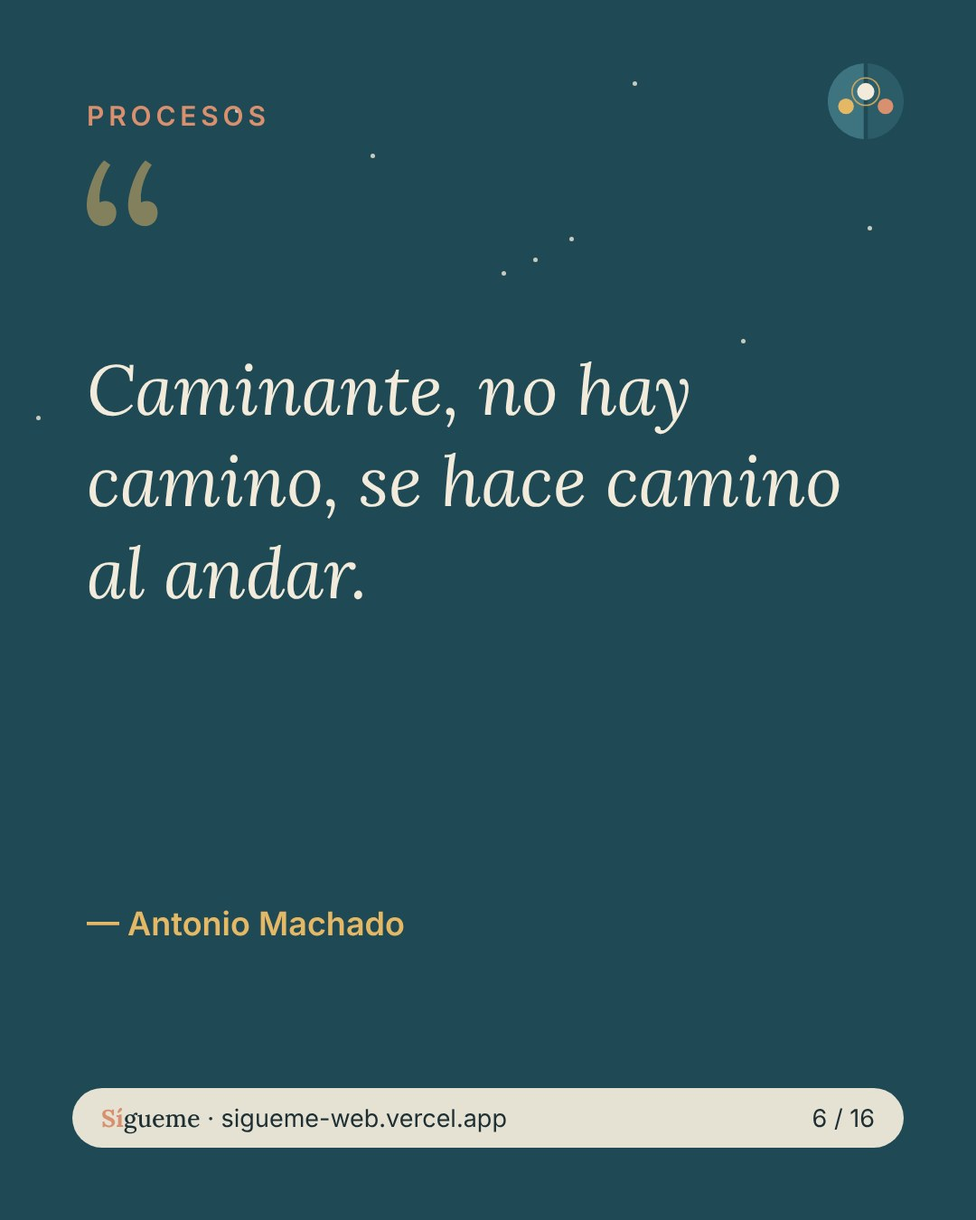
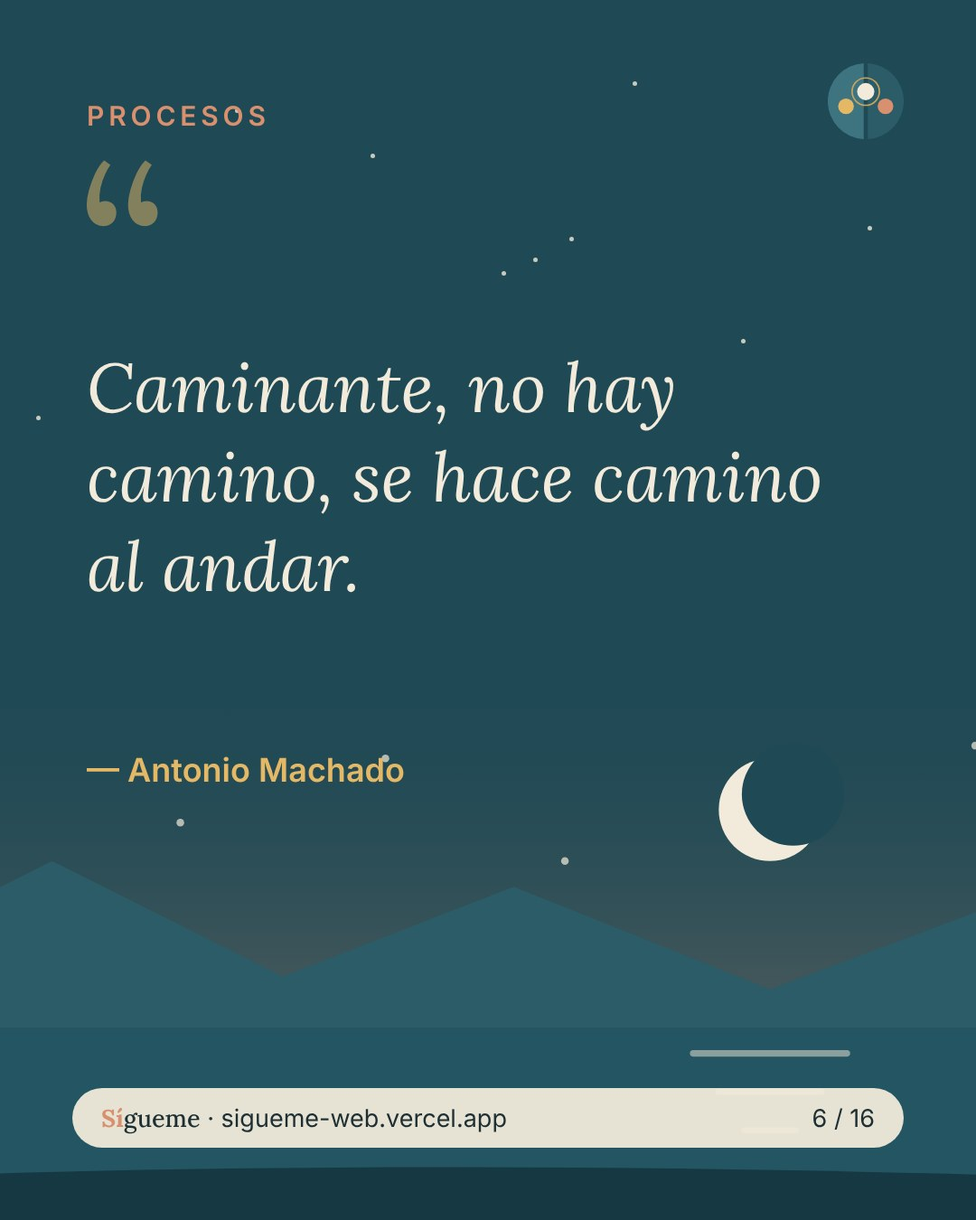
Sección Junto al pozo con ideas ampliadas; frases con fondos de paisajes
Claude-Session: https://claude.ai/code/session_01126Kc534DUeLLevauV9jN5

diff --git a/index.html b/index.html
@@ -423,6 +423,7 @@ footer a{color:var(--cream)}
         <li><a href="#inicio">Inicio</a></li>
         <li><a href="#libre-uso">Un espacio abierto</a></li>
         <li><a href="#emaus">Como en Emaús</a></li>
+        <li><a href="#pozo">Junto al pozo</a></li>
         <li><a href="#camino">Para el camino</a></li>
         <li><a href="#vida-consagrada">Vida consagrada hoy</a></li>
         <li><a href="#valoracion">Valoración personal</a></li>
@@ -500,6 +501,37 @@ footer a{color:var(--cream)}
           <li><span class="ill-tile"><svg viewBox="0 0 120 120" aria-hidden="true"><circle cx="22" cy="74" r="11" fill="#D9906F"/><rect y="88" width="120" height="32" fill="#2C5C67"/><path d="M42 62l24-20 24 20v26H42z" fill="#3D7480"/><path d="M36 64l30-26 30 26" stroke="#D9906F" stroke-width="6" fill="none" stroke-linejoin="round" stroke-linecap="round"/><rect x="58" y="66" width="14" height="22" rx="7" fill="#E5B866"/><rect x="78" y="66" width="8" height="8" rx="1" fill="#E5B866"/><path d="M62 88c-4 12-22 20-32 32h22c8-12 18-20 18-32z" fill="#9fb7bd"/></svg></span><span class="libre-n">03</span><b>Quedarse</b><span>Cuando se hace tarde y el cansancio pesa, tener un lugar donde quedarse.</span><button type="button" class="idea-btn" data-idea="em3" aria-haspopup="dialog">Ampliar la idea <span aria-hidden="true">→</span></button></li>
           <li><span class="ill-tile"><svg viewBox="0 0 120 120" aria-hidden="true"><path d="M60 100C36 84 28 70 30 58c2-10 14-14 22-8 4 3 6 6 8 10 2-4 4-7 8-10 8-6 20-2 22 8 2 12-6 26-30 42z" fill="#D9906F"/><path d="M60 50c-10-10-6-22 4-32 0 10 10 14 8 24-1 5-6 8-12 8z" fill="#E5B866"/><path d="M62 46c-4-4-2-10 2-14 0 5 4 7 3 11-1 2-3 3-5 3z" fill="#F2EBDB"/></svg></span><span class="libre-n">04</span><b>Volver al camino</b><span>Con el corazón encendido, volver a la comunidad y a la misión.</span><button type="button" class="idea-btn" data-idea="em4" aria-haspopup="dialog">Ampliar la idea <span aria-hidden="true">→</span></button></li>
         </ol>
+      </div>
+    </div>
+  </section>
+
+  <section class="block" id="pozo">
+    <div class="wrap">
+      <p class="eyebrow">Volver a la fuente</p>
+      <h2>Junto al pozo</h2>
+      <p class="po-lead">Al mediodía, una mujer va a buscar agua y encuentra a Jesús sentado junto al pozo. Una conversación cambia su vida (Jn 4,5-42). En el centro de toda vocación hay un encuentro así: no una idea, ni un proyecto, ni una norma, sino la persona de Jesús que sale al encuentro, mira, llama. Volver a ese encuentro es volver a la fuente.</p>
+      <div class="services"><article class="service"><span class="ill-tile"><svg viewBox="0 0 120 120" aria-hidden="true"><circle cx="86" cy="26" r="11" fill="#E5B866"/><path d="M60 22v26M40 22h40" stroke="#9fb7bd" stroke-width="3.5" stroke-linecap="round"/><path d="M60 48v10" stroke="#F2EBDB" stroke-width="2"/><path d="M54 58h12l-2 9h-8z" fill="#D9906F"/><path d="M28 66h64v34H28z" fill="#3D7480"/><path d="M28 66h64" stroke="#F2EBDB" stroke-width="4" stroke-linecap="round"/><path d="M28 80h64M28 92h64M46 66v14M74 66v14M60 80v12M38 92v8M82 92v8" stroke="#1F4955" stroke-width="2"/><path d="M12 104h96" stroke="#E5B866" stroke-width="3" stroke-linecap="round"/></svg></span><span class="tag">La iniciativa</span><h3>«Dame de beber»</h3><p>Jesús llega cansado y se sienta junto al pozo. Es Él quien empieza el diálogo, quien pide, quien sale al encuentro. Mi vocación no comenzó conmigo: comenzó con su sed de mí.</p><button type="button" class="idea-btn" data-idea="pz1" aria-haspopup="dialog">Ampliar la idea <span aria-hidden="true">→</span></button></article><article class="service"><span class="ill-tile"><svg viewBox="0 0 120 120" aria-hidden="true"><circle cx="60" cy="54" r="34" fill="#E5B866" opacity=".14"/><path d="M60 20c12 18 18 28 18 38a18 18 0 0 1-36 0c0-10 6-20 18-38z" fill="#9fb7bd"/><path d="M54 52c0 6 3 10 8 11" stroke="#F2EBDB" stroke-width="3" fill="none" stroke-linecap="round"/><path d="M22 92c8-6 16-6 24 0s16 6 24 0 16-6 24 0" stroke="#3D7480" stroke-width="4" fill="none" stroke-linecap="round"/><path d="M28 104c8-5 16-5 24 0s16 5 24 0 12-4 16-2" stroke="#D9906F" stroke-width="3.5" fill="none" stroke-linecap="round"/></svg></span><span class="tag">La fuente</span><h3>El agua viva</h3><p>«Si conocieras el don de Dios…» Él ofrece un agua que se vuelve manantial adentro. Cuando la tarea seca, no se trata de esforzarse más, sino de volver a beber de la fuente.</p><button type="button" class="idea-btn" data-idea="pz2" aria-haspopup="dialog">Ampliar la idea <span aria-hidden="true">→</span></button></article><article class="service"><span class="ill-tile"><svg viewBox="0 0 120 120" aria-hidden="true"><circle cx="60" cy="34" r="14" fill="#E5B866" opacity=".9"/><path d="M60 14v-6M80 34h6M34 34h-6M74 20l4-4M46 20l-4-4" stroke="#E5B866" stroke-width="2.5" stroke-linecap="round"/><circle cx="40" cy="62" r="8" fill="#F2EBDB"/><path d="M28 100V84c0-8 5-12 12-12s12 4 12 12v16z" fill="#F2EBDB"/><circle cx="80" cy="62" r="8" fill="#D9906F"/><path d="M68 100V84c0-8 5-12 12-12s12 4 12 12v16z" fill="#D9906F"/><path d="M14 104h92" stroke="#3D7480" stroke-width="3" stroke-linecap="round"/></svg></span><span class="tag">Mi historia</span><h3>«Me dijo todo lo que hice»</h3><p>La mirada de Jesús conoce toda la historia, también lo que cuesta mostrar, y no la usa para condenar sino para liberar. Él no llamó a una persona ideal: me llamó a mí.</p><button type="button" class="idea-btn" data-idea="pz3" aria-haspopup="dialog">Ampliar la idea <span aria-hidden="true">→</span></button></article><article class="service"><span class="ill-tile"><svg viewBox="0 0 120 120" aria-hidden="true"><path d="M24 98c18-2 40-14 56-44 6-12 14-22 26-28" stroke="#9fb7bd" stroke-width="3" stroke-dasharray="2 7" fill="none" stroke-linecap="round"/><circle cx="96" cy="22" r="5" fill="#F2EBDB"/><path d="M106 18l4-4M106 26l5 2" stroke="#F2EBDB" stroke-width="2" stroke-linecap="round"/><path d="M30 58h20l-2 6c8 4 12 12 11 22-1 9-8 14-18 14s-17-5-18-14c-1-10 3-18 11-22z" fill="#D9906F"/><path d="M28 56h24" stroke="#F2EBDB" stroke-width="4" stroke-linecap="round"/><path d="M40 72c-4 4-5 9-4 14" stroke="#F2EBDB" stroke-width="2.5" fill="none" stroke-linecap="round"/><path d="M12 104h96" stroke="#3D7480" stroke-width="3" stroke-linecap="round"/></svg></span><span class="tag">La misión</span><h3>Dejó su cántaro</h3><p>La mujer deja allí lo que había ido a buscar y corre a contar lo que vivió. La misión nace del desborde del encuentro, no de la obligación.</p><button type="button" class="idea-btn" data-idea="pz4" aria-haspopup="dialog">Ampliar la idea <span aria-hidden="true">→</span></button></article></div>
+      <div class="po-cols">
+        <div>
+          <h4>Mi llamado</h4>
+          <p>Cada vocación tiene su pozo: un lugar, un momento, una persona, una palabra en la que uno se sintió mirado y llamado. Con los años, la rutina, el cansancio o las crisis pueden cubrirlo de polvo.</p>
+          <h4>Recordar es volver a pasar por el corazón</h4>
+          <p>Volver al primer encuentro no es nostalgia. Es reconocer que la fuente sigue manando, aunque sea de noche, y que el que llamó sigue llamando hoy, en esta etapa de la vida.</p>
+          <p class="po-note">Una sugerencia: escribí tu historia de llamado en el <a href="app/#cuaderno" target="_blank" rel="noopener">cuaderno de la app</a>, o usá la dinámica <a href="#dinamicas">Mi historia personal</a> para mirarla con ojos de fe.</p>
+        </div>
+        <div>
+          <div class="po-box">
+            <h4>Para rezar mi llamado</h4>
+            <ul class="care">
+              <li>¿Cuándo y dónde sentí por primera vez que Jesús me llamaba?</li>
+              <li>¿Qué palabra, gesto o persona me hizo saber que era para mí?</li>
+              <li>¿Cuál es hoy mi pozo, el lugar donde vuelvo a encontrarlo?</li>
+              <li>¿Qué cántaro necesito dejar para volver a la fuente?</li>
+              <li>¿Cómo le contaría hoy mi historia de llamado a alguien?</li>
+            </ul>
+          </div>
+          <p class="po-note">«Dios tiene sed de que el hombre tenga sed de Él» (Catecismo de la Iglesia Católica, 2560).</p>
+        </div>
       </div>
     </div>
   </section>
@@ -888,7 +920,7 @@ box.addEventListener("keydown",e=>{if(e.key==="ArrowRight")show(fi+1);if(e.key==
 document.querySelectorAll("[data-df]").forEach(b=>b.addEventListener("click",()=>{const f=b.dataset.df;document.querySelectorAll("[data-df]").forEach(x=>x.setAttribute("aria-pressed",x===b?"true":"false"));document.querySelectorAll(".din").forEach(li=>li.hidden=!!f&&li.dataset.dcat!==f)}));
 </script>
 <script>
-(function(){const IDEAS={"em1": {"eb": "Como en Emaús · 01", "t": "Caminar al lado", "hoy": ["Vivimos apurados. Las agendas pastorales están llenas y muchas veces se acompaña «de pasada», entre una reunión y otra. A la vez, crece la soledad de muchos sacerdotes, religiosos y religiosas, que cargan su tarea sin alguien que camine cerca.", "Acompañar no empieza por dar respuestas ni soluciones: empieza por estar. Ir al ritmo del otro, sin apurarlo, es ya una forma de cuidado."], "aut": [["Papa Francisco", "En <i>Evangelii gaudium</i> (169) habla del «arte del acompañamiento»: aprender a quitarse las sandalias ante la tierra sagrada del otro y darle al caminar un ritmo sanador de projimidad."], ["Carl Rogers", "Sostuvo que lo que más ayuda a una persona a crecer no es una técnica, sino una relación: presencia auténtica, comprensión empática y aceptación sin condiciones."], ["Henri Nouwen", "Escribió que el amigo que más nos importa suele ser el que sabe quedarse a nuestro lado en silencio cuando no hay nada que decir, más que el que tiene todas las respuestas."]], "pal": [["Jesús en persona se acercó y siguió caminando con ellos.", "Lc 24,15"], ["Yo estoy con ustedes todos los días hasta el fin del mundo.", "Mt 28,20"]], "q": "¿Quién camina hoy a mi lado? ¿Al lado de quién estoy caminando yo?"}, "em2": {"eb": "Como en Emaús · 02", "t": "Escuchar lo que pesa", "hoy": ["Hay mucho ruido y poca escucha. Y quienes escuchan a otros todo el día (en la confesión, en la dirección espiritual, en la comunidad) muchas veces no tienen dónde ser escuchados.", "Poner en palabras lo vivido ordena lo que está mezclado por dentro y alivia. Lo que se calla no desaparece: suele volver como cansancio, irritabilidad o distancia."], "aut": [["Dietrich Bonhoeffer", "En <i>Vida en comunidad</i> afirma que el primer servicio que le debemos al hermano es escucharlo, y que quien no sabe escuchar al hermano pronto tampoco sabrá escuchar a Dios."], ["James Pennebaker", "Sus investigaciones mostraron que escribir sobre experiencias difíciles y las emociones que despertaron mejora el bienestar emocional y hasta la salud física."], ["Papa Francisco", "Describe la escucha como una capacidad del corazón que hace posible la cercanía, y que va más allá de oír (<i>Evangelii gaudium</i>, 171)."]], "pal": [["¿Qué comentaban por el camino?", "Lc 24,17"], ["Habla, Señor, porque tu servidor escucha.", "1 Sam 3,10"], ["Que cada uno esté dispuesto a escuchar y sea lento para hablar.", "Sant 1,19"]], "q": "¿Qué me pesa hoy que todavía no le conté a nadie? ¿Dónde puedo ponerlo en palabras?"}, "em3": {"eb": "Como en Emaús · 03", "t": "Quedarse", "hoy": ["Vivimos en lo que el papa Francisco llama la «cultura de lo provisorio»: traslados, cambios, vínculos que no llegan a echar raíz. Muchas veces nos vamos antes de que se haga tarde, o no nos damos permiso para detenernos.", "Todos necesitamos un lugar donde quedarnos cuando el día se apaga: una comunidad, un amigo, un acompañante, un tiempo de descanso. Quedarse no es abandonar la misión: es lo que la hace posible."], "aut": [["John Bowlby", "Mostró que los seres humanos necesitamos una «base segura»: alguien a quien volver cuando hay amenaza o cansancio, y desde donde volver a salir a explorar."], ["Donald Winnicott", "Habló del <i>sostén</i>: la experiencia de ser sostenido por otro es lo que permite atravesar la angustia sin desarmarse."], ["Papa Francisco", "Advierte sobre la cultura de lo provisorio y anima a vínculos y compromisos estables, que den raíces."]], "pal": [["Quédate con nosotros, porque ya es tarde y el día se acaba.", "Lc 24,29"], ["Permanezcan en mí, como yo permanezco en ustedes.", "Jn 15,4"], ["Vengan a mí todos los que están afligidos y agobiados, y yo los aliviaré.", "Mt 11,28"]], "q": "¿Dónde me quedo cuando se hace tarde? ¿Para quién soy yo un lugar donde quedarse?"}, "em4": {"eb": "Como en Emaús · 04", "t": "Volver al camino", "hoy": ["Después de una crisis, un duelo o un tiempo de cansancio, no se vuelve igual. Se vuelve distinto: con heridas, pero también con algo nuevo que se aprendió en la noche.", "Los discípulos no vuelven solos ni a cualquier lugar: vuelven a la comunidad. La misión se retoma acompañado, con el corazón encendido y con lo vivido integrado."], "aut": [["Boris Cyrulnik", "Estudió la resiliencia y mostró que nadie se recupera solo: hacen falta «tutores de resiliencia», personas que ofrecen un vínculo para volver a confiar."], ["Tedeschi y Calhoun", "Describieron el <i>crecimiento postraumático</i>: muchas personas, después de atravesar algo muy duro, encuentran más sentido, vínculos más profundos y una espiritualidad más honda."], ["Viktor Frankl", "Sostuvo que el sentido puede descubrirse aun en el sufrimiento, y que eso da fuerza para seguir."]], "pal": [["¿No ardía acaso nuestro corazón, mientras nos hablaba en el camino?", "Lc 24,32"], ["En ese mismo momento, se pusieron en camino y regresaron a Jerusalén.", "Lc 24,33"], ["Los que esperan en el Señor renuevan sus fuerzas.", "Is 40,31"]], "q": "¿Qué me enciende hoy el corazón? ¿A qué comunidad o a qué misión quiero volver?"}, "cam1": {"eb": "Para el camino · Formación", "t": "El camino de la formación", "hoy": ["Quienes inician hoy un camino de formación llegan con historias muy diversas: familias distintas, experiencias de vida previas, la cultura digital. La formación ya no puede ser sólo transmitir contenidos: necesita acompañar a la persona entera.", "Y no termina con la ordenación o los votos. La formación permanente es la disposición a seguir creciendo y dejarse transformar a lo largo de toda la vida."], "aut": [["San Juan Pablo II", "En <i>Pastores dabo vobis</i> (43) afirma que, sin una adecuada formación humana, toda la formación quedaría privada de su fundamento necesario."], ["Amadeo Cencini", "Habla de la <i>docibilitas</i>: la libertad de dejarse formar por la vida, por los demás y por Dios en todo tiempo, como clave de la formación permanente."], ["Erik Erikson", "Describió el desarrollo como una serie de etapas, cada una con su propia tarea: la identidad no se logra de una vez, se construye y se renueva."]], "pal": [["Como la arcilla en la mano del alfarero, así están ustedes en mi mano.", "Jer 18,6"], ["Jesús iba creciendo en sabiduría, en estatura y en gracia.", "Lc 2,52"], ["El que comenzó en ustedes la buena obra la irá completando.", "Flp 1,6"]], "q": "¿En qué aspecto de mi humanidad siento que hoy necesito crecer?"}, "cam2": {"eb": "Para el camino · Ministerio y misión", "t": "El peso de la tarea", "hoy": ["Muchos sacerdotes atienden varias comunidades a la vez; muchas comunidades religiosas son cada vez más pequeñas y con más obras. El celular hace que la tarea no termine nunca. A eso se suma la exigencia de responder a todo y a todos.", "Investigaciones en distintos países muestran que en el clero y la vida consagrada conviven una gran satisfacción con la vocación y niveles importantes de agotamiento. Las dos cosas pueden ser verdad al mismo tiempo."], "aut": [["Christina Maslach", "Describió el <i>burnout</i> con tres rasgos: agotamiento emocional, distancia o cinismo hacia las personas, y sensación de que lo que hago no sirve."], ["Charles Figley", "Propuso el concepto de <i>fatiga por compasión</i>: el costo de acompañar, de manera sostenida, el sufrimiento de otros."], ["Papa Francisco", "Distinguió el cansancio bueno de quien se entrega por su pueblo del agobio que nace de querer hacerlo todo solo, y animó a dejarse descansar en el Señor."]], "pal": [["Vengan ustedes solos a un lugar desierto, para descansar un poco.", "Mc 6,31"], ["Levántate y come, porque todavía te queda mucho por caminar.", "1 Re 19,7"], ["La tarea es demasiado pesada para ti: no puedes hacerla tú solo.", "Ex 18,18"]], "q": "¿Qué estoy cargando solo que podría compartir o delegar?"}, "cam3": {"eb": "Para el camino · Afectividad", "t": "Los afectos y los vínculos", "hoy": ["La soledad es una de las experiencias más nombradas por sacerdotes y consagrados. El celibato y la castidad consagrada no son ausencia de vínculos: necesitan amistades verdaderas, vida fraterna y una relación sana con la propia familia.", "Las redes sociales ofrecen contacto permanente, pero no siempre cercanía. Una afectividad integrada se cultiva con tiempo, presencia y honestidad con uno mismo."], "aut": [["Amadeo Cencini", "Sostiene que la afectividad no se reprime ni se niega: se integra. El celibato vivido con madurez es una forma de amar, no de dejar de amar."], ["Erich Fromm", "En <i>El arte de amar</i> plantea que amar no es sólo un sentimiento: es una capacidad que se aprende y se cultiva."], ["John Bowlby", "Mostró que el modo en que aprendimos a vincularnos de chicos influye en cómo nos vinculamos de adultos, y que esos modos pueden revisarse."]], "pal": [["Ya no los llamo servidores, sino amigos.", "Jn 15,15"], ["Instituyó a los Doce para que estuvieran con él.", "Mc 3,14"], ["¡Ay del que está solo y cae, sin tener a nadie que lo levante!", "Ecl 4,10"]], "q": "¿Con quién puedo ser yo mismo, sin rol? ¿Qué vínculo necesita hoy más cuidado?"}, "cam4": {"eb": "Para el camino · Momentos de cambio", "t": "Crisis y transiciones", "hoy": ["Traslados, duelos, enfermedades, conflictos en la comunidad, crisis de sentido o de vocación. A veces llegan solas y a veces todas juntas. Y muchas veces se viven en silencio, por miedo a decepcionar o a ser juzgado.", "Una crisis no es necesariamente un fracaso. Puede ser el lugar donde algo se purifica y la vocación madura. Lo que más daña no es la crisis, sino atravesarla a solas."], "aut": [["Erik Erikson", "Entendió las crisis como momentos de cambio propios del desarrollo: encrucijadas que, bien acompañadas, permiten crecer."], ["Anselm Grün", "En <i>La mitad de la vida como tarea espiritual</i> presenta la crisis de la mitad de la vida como una invitación a ir más hondo y descubrir el propio centro."], ["San Juan de la Cruz", "Habló de la «noche oscura»: un tiempo de aridez y oscuridad en el que Dios sigue obrando aunque no se lo sienta."]], "pal": [["Aunque cruce por oscuras quebradas, no temeré ningún mal, porque tú estás conmigo.", "Sal 23,4"], ["Si cruzas por las aguas, yo estaré contigo.", "Is 43,2"], ["Maestro, ¿no te importa que nos ahoguemos?", "Mc 4,38"]], "q": "¿Qué cambio estoy atravesando? ¿Con quién podría no atravesarlo a solas?"}, "vc1": {"eb": "Vida consagrada hoy · El origen", "t": "Un amor que funda", "hoy": ["Vivimos en una cultura de la autorrealización, donde la vida se piensa como un proyecto personal a construir. En ese clima, también la vocación puede vivirse como una carrera, un deber o un mérito que hay que sostener a fuerza de voluntad.", "Cuando eso pasa, la entrega cansa y se vuelve pesada. Volver al origen (al momento en que uno se sintió mirado y amado) devuelve el sentido: la consagración es, antes que nada, una respuesta."], "aut": [["Benedicto XVI", "En <i>Deus caritas est</i> (1) recuerda que no se comienza a ser cristiano por una decisión ética o una gran idea, sino por el encuentro con una Persona que da un nuevo horizonte a la vida."], ["Hans Urs von Balthasar", "Su libro <i>Sólo el amor es digno de fe</i> sostiene que lo que hace creíble la fe no es un sistema de ideas, sino el amor de Dios que se entrega."], ["San Juan Pablo II", "En <i>Vita consecrata</i> presenta la vida consagrada como respuesta a una iniciativa de Dios, que llama y atrae con su amor antes de cualquier decisión humana."]], "pal": [["Nosotros amamos porque Dios nos amó primero.", "1 Jn 4,19"], ["Te amé con un amor eterno.", "Jer 31,3"], ["Jesús lo miró con amor.", "Mc 10,21"]], "q": "¿Recuerdo el momento en que me sentí mirado/a y amado/a? ¿Qué queda hoy de ese primer amor?"}, "vc2": {"eb": "Vida consagrada hoy · Los votos", "t": "Formas de libertad", "hoy": ["En una cultura del consumo, de la sexualidad banalizada y de la autonomía como valor absoluto, los votos resultan contraculturales. Pueden vivirse como una lista de renuncias o como un camino de libertad interior.", "Los desafíos son concretos: el uso del dinero y del tiempo, la afectividad y la soledad, el discernimiento compartido en comunidades cada vez más diversas. Los votos no se viven en abstracto, sino en lo cotidiano."], "aut": [["Erich Fromm", "En <i>¿Tener o ser?</i> distingue entre vivir para poseer y vivir para ser. La pobreza evangélica apunta a esa libertad: no definirse por lo que se tiene."], ["Amadeo Cencini", "Presenta los votos como una pedagogía del amor: no son prohibiciones, sino caminos para amar con un corazón libre, indiviso y disponible."], ["Papa Francisco", "En su carta a los consagrados (2014) los anima a «despertar al mundo» con un modo distinto de vivir, alegre y profético."]], "pal": [["Donde esté tu tesoro, allí estará también tu corazón.", "Mt 6,21"], ["No hay amor más grande que dar la vida por los amigos.", "Jn 15,13"], ["Que no se haga mi voluntad, sino la tuya.", "Lc 22,42"]], "q": "¿Cuál de mis votos o compromisos vivo hoy como peso, y cuál como libertad?"}, "vc3": {"eb": "Vida consagrada hoy · En comunidad", "t": "Una escuela de humanidad", "hoy": ["Las comunidades son hoy más pequeñas, más internacionales y con varias generaciones conviviendo. Eso enriquece, pero también trae roces: distintas culturas, distintas formas de rezar, de trabajar, de descansar.", "La comunidad puede ser lugar de sanación o de herida. No se trata de convivir sin conflictos, sino de aprender a atravesarlos: hablar, escuchar, perdonar, recomenzar."], "aut": [["Dietrich Bonhoeffer", "En <i>Vida en comunidad</i> advierte que quien ama más su ideal de comunidad que a la comunidad real termina destruyéndola: la fraternidad es un don, no un proyecto a imponer."], ["San Juan Pablo II", "En <i>Vita consecrata</i> (46) llama a los consagrados a ser «expertos en comunión», testigos de que es posible vivir unidos siendo diferentes."], ["Marshall Rosenberg", "Su propuesta de comunicación no violenta enseña a expresar lo que siento y necesito sin atacar, y a escuchar lo que el otro necesita detrás de lo que dice."]], "pal": [["La multitud de los creyentes tenía un solo corazón y una sola alma.", "Hch 4,32"], ["Sopórtense los unos a los otros y perdónense mutuamente.", "Col 3,13"], ["¡Qué bueno y agradable es que los hermanos vivan unidos!", "Sal 133,1"]], "q": "¿Con quién de mi comunidad me cuesta más? ¿Qué me enseña esa relación?"}, "vc4": {"eb": "Vida consagrada hoy · Profecía", "t": "Fecundidad en lo pequeño", "hoy": ["Muchas congregaciones viven la disminución de sus miembros, el envejecimiento y el cierre de obras. La tentación puede ser la nostalgia de otros tiempos o la lógica de la mera supervivencia.", "Pero la pequeñez también abre caminos: volver a lo esencial, compartir la misión con laicos y otras congregaciones, estar en las periferias, ser signo más que estructura. La fecundidad no se mide por el tamaño."], "aut": [["Papa Francisco", "Propuso a los consagrados tres actitudes: mirar el pasado con gratitud, vivir el presente con pasión y abrazar el futuro con esperanza."], ["Joseph Ratzinger", "Ya en 1969 anticipó una Iglesia más pequeña y más pobre, que perdería estructuras pero ganaría en interioridad y sencillez."], ["Johann Baptist Metz", "Habló de una «mística de ojos abiertos»: una espiritualidad que no se aparta del mundo, sino que mira con atención el sufrimiento de los demás."]], "pal": [["No temas, pequeño rebaño.", "Lc 12,32"], ["Es la más pequeña de las semillas, pero cuando crece es la más grande de las hortalizas.", "Mt 13,32"], ["Yo estoy por hacer algo nuevo: ya está germinando, ¿no se dan cuenta?", "Is 43,19"]], "q": "¿Dónde veo hoy fecundidad en lo pequeño? ¿Qué es lo esencial que no quiero perder?"}};const keys=Object.keys(IDEAS);const d=document.getElementById("idea-box");let cur=0;
+(function(){const IDEAS={"em1": {"eb": "Como en Emaús · 01", "t": "Caminar al lado", "hoy": ["Vivimos apurados. Las agendas pastorales están llenas y muchas veces se acompaña «de pasada», entre una reunión y otra. A la vez, crece la soledad de muchos sacerdotes, religiosos y religiosas, que cargan su tarea sin alguien que camine cerca.", "Acompañar no empieza por dar respuestas ni soluciones: empieza por estar. Ir al ritmo del otro, sin apurarlo, es ya una forma de cuidado."], "aut": [["Papa Francisco", "En <i>Evangelii gaudium</i> (169) habla del «arte del acompañamiento»: aprender a quitarse las sandalias ante la tierra sagrada del otro y darle al caminar un ritmo sanador de projimidad."], ["Carl Rogers", "Sostuvo que lo que más ayuda a una persona a crecer no es una técnica, sino una relación: presencia auténtica, comprensión empática y aceptación sin condiciones."], ["Henri Nouwen", "Escribió que el amigo que más nos importa suele ser el que sabe quedarse a nuestro lado en silencio cuando no hay nada que decir, más que el que tiene todas las respuestas."]], "pal": [["Jesús en persona se acercó y siguió caminando con ellos.", "Lc 24,15"], ["Yo estoy con ustedes todos los días hasta el fin del mundo.", "Mt 28,20"]], "q": "¿Quién camina hoy a mi lado? ¿Al lado de quién estoy caminando yo?"}, "em2": {"eb": "Como en Emaús · 02", "t": "Escuchar lo que pesa", "hoy": ["Hay mucho ruido y poca escucha. Y quienes escuchan a otros todo el día (en la confesión, en la dirección espiritual, en la comunidad) muchas veces no tienen dónde ser escuchados.", "Poner en palabras lo vivido ordena lo que está mezclado por dentro y alivia. Lo que se calla no desaparece: suele volver como cansancio, irritabilidad o distancia."], "aut": [["Dietrich Bonhoeffer", "En <i>Vida en comunidad</i> afirma que el primer servicio que le debemos al hermano es escucharlo, y que quien no sabe escuchar al hermano pronto tampoco sabrá escuchar a Dios."], ["James Pennebaker", "Sus investigaciones mostraron que escribir sobre experiencias difíciles y las emociones que despertaron mejora el bienestar emocional y hasta la salud física."], ["Papa Francisco", "Describe la escucha como una capacidad del corazón que hace posible la cercanía, y que va más allá de oír (<i>Evangelii gaudium</i>, 171)."]], "pal": [["¿Qué comentaban por el camino?", "Lc 24,17"], ["Habla, Señor, porque tu servidor escucha.", "1 Sam 3,10"], ["Que cada uno esté dispuesto a escuchar y sea lento para hablar.", "Sant 1,19"]], "q": "¿Qué me pesa hoy que todavía no le conté a nadie? ¿Dónde puedo ponerlo en palabras?"}, "em3": {"eb": "Como en Emaús · 03", "t": "Quedarse", "hoy": ["Vivimos en lo que el papa Francisco llama la «cultura de lo provisorio»: traslados, cambios, vínculos que no llegan a echar raíz. Muchas veces nos vamos antes de que se haga tarde, o no nos damos permiso para detenernos.", "Todos necesitamos un lugar donde quedarnos cuando el día se apaga: una comunidad, un amigo, un acompañante, un tiempo de descanso. Quedarse no es abandonar la misión: es lo que la hace posible."], "aut": [["John Bowlby", "Mostró que los seres humanos necesitamos una «base segura»: alguien a quien volver cuando hay amenaza o cansancio, y desde donde volver a salir a explorar."], ["Donald Winnicott", "Habló del <i>sostén</i>: la experiencia de ser sostenido por otro es lo que permite atravesar la angustia sin desarmarse."], ["Papa Francisco", "Advierte sobre la cultura de lo provisorio y anima a vínculos y compromisos estables, que den raíces."]], "pal": [["Quédate con nosotros, porque ya es tarde y el día se acaba.", "Lc 24,29"], ["Permanezcan en mí, como yo permanezco en ustedes.", "Jn 15,4"], ["Vengan a mí todos los que están afligidos y agobiados, y yo los aliviaré.", "Mt 11,28"]], "q": "¿Dónde me quedo cuando se hace tarde? ¿Para quién soy yo un lugar donde quedarse?"}, "em4": {"eb": "Como en Emaús · 04", "t": "Volver al camino", "hoy": ["Después de una crisis, un duelo o un tiempo de cansancio, no se vuelve igual. Se vuelve distinto: con heridas, pero también con algo nuevo que se aprendió en la noche.", "Los discípulos no vuelven solos ni a cualquier lugar: vuelven a la comunidad. La misión se retoma acompañado, con el corazón encendido y con lo vivido integrado."], "aut": [["Boris Cyrulnik", "Estudió la resiliencia y mostró que nadie se recupera solo: hacen falta «tutores de resiliencia», personas que ofrecen un vínculo para volver a confiar."], ["Tedeschi y Calhoun", "Describieron el <i>crecimiento postraumático</i>: muchas personas, después de atravesar algo muy duro, encuentran más sentido, vínculos más profundos y una espiritualidad más honda."], ["Viktor Frankl", "Sostuvo que el sentido puede descubrirse aun en el sufrimiento, y que eso da fuerza para seguir."]], "pal": [["¿No ardía acaso nuestro corazón, mientras nos hablaba en el camino?", "Lc 24,32"], ["En ese mismo momento, se pusieron en camino y regresaron a Jerusalén.", "Lc 24,33"], ["Los que esperan en el Señor renuevan sus fuerzas.", "Is 40,31"]], "q": "¿Qué me enciende hoy el corazón? ¿A qué comunidad o a qué misión quiero volver?"}, "pz1": {"eb": "Junto al pozo · La iniciativa", "t": "«Dame de beber»", "hoy": ["Con el tiempo, la vocación se puede vivir casi sólo desde el hacer: lo que organizo, lo que sostengo, lo que doy. Y se olvida que fue Él quien empezó. Antes que mi respuesta, estuvo su búsqueda.", "Jesús llega cansado y pide agua. Se muestra necesitado. También hoy tiene sed: sed de encontrarse con quienes llamó, más allá de lo que hagan por Él."], "aut": [["Catecismo de la Iglesia Católica", "Comentando este pasaje (2560), dice que junto al pozo Cristo sale al encuentro de cada persona y que Dios tiene sed de que el hombre tenga sed de Él."], ["San Agustín", "En sus <i>Confesiones</i> reza: «Nos hiciste, Señor, para ti, y nuestro corazón está inquieto hasta que descanse en ti»."], ["Santa Teresa de Calcuta", "Hizo escribir en cada capilla de su congregación las palabras de Jesús en la cruz, «Tengo sed», como centro de su vocación."]], "pal": [["Jesús, fatigado del camino, se había sentado junto al pozo. Una mujer fue a sacar agua, y Jesús le dijo: «Dame de beber».", "Jn 4,6-7"], ["No son ustedes los que me eligieron a mí, sino yo el que los elegí a ustedes.", "Jn 15,16"], ["Tengo sed.", "Jn 19,28"]], "q": "¿Cómo me buscó Jesús al principio? ¿De qué tiene sed hoy en mí?"}, "pz2": {"eb": "Junto al pozo · La fuente", "t": "El agua viva", "hoy": ["La sequedad espiritual es frecuente en quienes dan mucho. A veces se buscan sustitutos: el reconocimiento, la actividad constante, las pantallas, el control. Calman un rato, pero no sacian.", "La oración personal, la Palabra rezada, los sacramentos vividos y no sólo celebrados para otros: ahí vuelve a manar la fuente. No se trata de hacer más, sino de beber."], "aut": [["San Juan de la Cruz", "En un poema escrito en prisión canta: «Qué bien sé yo la fonte que mana y corre, aunque es de noche». La fuente sigue manando aun en la oscuridad."], ["Henri Nouwen", "En <i>Tú eres mi amado</i> propone que la identidad más honda no está en lo que hacemos ni en lo que otros dicen, sino en sabernos amados por Dios."], ["Pablo d’Ors", "En <i>Biografía del silencio</i> describe la meditación como un regreso a lo esencial, desde donde todo lo demás se vive de otra manera."]], "pal": [["Si conocieras el don de Dios y quién es el que te dice «Dame de beber», tú misma se lo hubieras pedido, y él te habría dado agua viva.", "Jn 4,10"], ["Me abandonaron a mí, la fuente de agua viva, para cavarse cisternas agrietadas que no retienen el agua.", "Jer 2,13"], ["Como la cierva sedienta busca las corrientes de agua, así mi alma suspira por ti, mi Dios.", "Sal 42,2"]], "q": "¿De qué cisternas estoy bebiendo? ¿Dónde vuelvo a encontrar la fuente?"}, "pz3": {"eb": "Junto al pozo · Mi historia", "t": "«Me dijo todo lo que hice»", "hoy": ["El rol puede convertirse en un refugio para no mostrarse: siempre disponible, siempre bien, siempre fuerte. Cuesta dejarse ver con la propia historia, con lo herido y lo no resuelto.", "Jesús conoce toda la historia de la samaritana y no la expulsa: la incluye. La vocación no llama a una persona ideal, sino a la real. Integrar la propia historia es parte del camino."], "aut": [["Papa Francisco", "Eligió como lema «Miserando atque eligendo» (lo miró con misericordia y lo eligió), tomado de san Beda al comentar el llamado de Mateo: la vocación nace de una mirada de misericordia."], ["Amadeo Cencini", "En <i>Vivir reconciliados</i> muestra que reconciliarse con la propia historia, también con sus heridas, es condición para una entrega libre."], ["Carl Rogers", "Observó que el cambio empieza cuando una persona se siente aceptada tal como es: sólo entonces puede crecer."]], "pal": [["Vengan a ver a un hombre que me ha dicho todo lo que hice.", "Jn 4,29"], ["Señor, tú me sondeas y me conoces.", "Sal 139,1"], ["Te he llamado por tu nombre, tú me perteneces.", "Is 43,1"]], "q": "¿Qué parte de mi historia me cuesta poner delante de su mirada?"}, "pz4": {"eb": "Junto al pozo · La misión", "t": "Dejó su cántaro", "hoy": ["Cuando falta el encuentro, la pastoral puede volverse gestión, y la misión, una carga. Cuando hay encuentro, la misión es un desborde: no se puede callar lo que se vivió.", "La samaritana no tenía formación ni cargo: tenía una experiencia. Y fue la primera en anunciarlo en su pueblo. Lo que más transmite no es lo que sabemos, sino lo que vivimos."], "aut": [["Papa Francisco", "En <i>Evangelii gaudium</i> (120) afirma que todo cristiano es misionero en la medida en que se ha encontrado con el amor de Dios en Cristo: somos «discípulos misioneros»."], ["Benedicto XVI", "En Aparecida (2007) recordó que la Iglesia no crece por proselitismo, sino por atracción: por el testimonio de quienes viven el encuentro."], ["Documento de Aparecida", "Propone que la vida cristiana nace del encuentro personal con Jesucristo, y que de ese encuentro brota la misión."]], "pal": [["La mujer, dejando allí su cántaro, corrió a la ciudad y dijo a la gente: «Vengan a ver».", "Jn 4,28-29"], ["Ya no creemos por lo que tú has dicho: nosotros mismos lo hemos oído.", "Jn 4,42"], ["Lo que hemos visto y oído, se lo anunciamos también a ustedes.", "1 Jn 1,3"]], "q": "¿Qué cántaro tengo que dejar? ¿Qué de lo vivido con Jesús me gustaría contar?"}, "cam1": {"eb": "Para el camino · Formación", "t": "El camino de la formación", "hoy": ["Quienes inician hoy un camino de formación llegan con historias muy diversas: familias distintas, experiencias de vida previas, la cultura digital. La formación ya no puede ser sólo transmitir contenidos: necesita acompañar a la persona entera.", "Y no termina con la ordenación o los votos. La formación permanente es la disposición a seguir creciendo y dejarse transformar a lo largo de toda la vida."], "aut": [["San Juan Pablo II", "En <i>Pastores dabo vobis</i> (43) afirma que, sin una adecuada formación humana, toda la formación quedaría privada de su fundamento necesario."], ["Amadeo Cencini", "Habla de la <i>docibilitas</i>: la libertad de dejarse formar por la vida, por los demás y por Dios en todo tiempo, como clave de la formación permanente."], ["Erik Erikson", "Describió el desarrollo como una serie de etapas, cada una con su propia tarea: la identidad no se logra de una vez, se construye y se renueva."]], "pal": [["Como la arcilla en la mano del alfarero, así están ustedes en mi mano.", "Jer 18,6"], ["Jesús iba creciendo en sabiduría, en estatura y en gracia.", "Lc 2,52"], ["El que comenzó en ustedes la buena obra la irá completando.", "Flp 1,6"]], "q": "¿En qué aspecto de mi humanidad siento que hoy necesito crecer?"}, "cam2": {"eb": "Para el camino · Ministerio y misión", "t": "El peso de la tarea", "hoy": ["Muchos sacerdotes atienden varias comunidades a la vez; muchas comunidades religiosas son cada vez más pequeñas y con más obras. El celular hace que la tarea no termine nunca. A eso se suma la exigencia de responder a todo y a todos.", "Investigaciones en distintos países muestran que en el clero y la vida consagrada conviven una gran satisfacción con la vocación y niveles importantes de agotamiento. Las dos cosas pueden ser verdad al mismo tiempo."], "aut": [["Christina Maslach", "Describió el <i>burnout</i> con tres rasgos: agotamiento emocional, distancia o cinismo hacia las personas, y sensación de que lo que hago no sirve."], ["Charles Figley", "Propuso el concepto de <i>fatiga por compasión</i>: el costo de acompañar, de manera sostenida, el sufrimiento de otros."], ["Papa Francisco", "Distinguió el cansancio bueno de quien se entrega por su pueblo del agobio que nace de querer hacerlo todo solo, y animó a dejarse descansar en el Señor."]], "pal": [["Vengan ustedes solos a un lugar desierto, para descansar un poco.", "Mc 6,31"], ["Levántate y come, porque todavía te queda mucho por caminar.", "1 Re 19,7"], ["La tarea es demasiado pesada para ti: no puedes hacerla tú solo.", "Ex 18,18"]], "q": "¿Qué estoy cargando solo que podría compartir o delegar?"}, "cam3": {"eb": "Para el camino · Afectividad", "t": "Los afectos y los vínculos", "hoy": ["La soledad es una de las experiencias más nombradas por sacerdotes y consagrados. El celibato y la castidad consagrada no son ausencia de vínculos: necesitan amistades verdaderas, vida fraterna y una relación sana con la propia familia.", "Las redes sociales ofrecen contacto permanente, pero no siempre cercanía. Una afectividad integrada se cultiva con tiempo, presencia y honestidad con uno mismo."], "aut": [["Amadeo Cencini", "Sostiene que la afectividad no se reprime ni se niega: se integra. El celibato vivido con madurez es una forma de amar, no de dejar de amar."], ["Erich Fromm", "En <i>El arte de amar</i> plantea que amar no es sólo un sentimiento: es una capacidad que se aprende y se cultiva."], ["John Bowlby", "Mostró que el modo en que aprendimos a vincularnos de chicos influye en cómo nos vinculamos de adultos, y que esos modos pueden revisarse."]], "pal": [["Ya no los llamo servidores, sino amigos.", "Jn 15,15"], ["Instituyó a los Doce para que estuvieran con él.", "Mc 3,14"], ["¡Ay del que está solo y cae, sin tener a nadie que lo levante!", "Ecl 4,10"]], "q": "¿Con quién puedo ser yo mismo, sin rol? ¿Qué vínculo necesita hoy más cuidado?"}, "cam4": {"eb": "Para el camino · Momentos de cambio", "t": "Crisis y transiciones", "hoy": ["Traslados, duelos, enfermedades, conflictos en la comunidad, crisis de sentido o de vocación. A veces llegan solas y a veces todas juntas. Y muchas veces se viven en silencio, por miedo a decepcionar o a ser juzgado.", "Una crisis no es necesariamente un fracaso. Puede ser el lugar donde algo se purifica y la vocación madura. Lo que más daña no es la crisis, sino atravesarla a solas."], "aut": [["Erik Erikson", "Entendió las crisis como momentos de cambio propios del desarrollo: encrucijadas que, bien acompañadas, permiten crecer."], ["Anselm Grün", "En <i>La mitad de la vida como tarea espiritual</i> presenta la crisis de la mitad de la vida como una invitación a ir más hondo y descubrir el propio centro."], ["San Juan de la Cruz", "Habló de la «noche oscura»: un tiempo de aridez y oscuridad en el que Dios sigue obrando aunque no se lo sienta."]], "pal": [["Aunque cruce por oscuras quebradas, no temeré ningún mal, porque tú estás conmigo.", "Sal 23,4"], ["Si cruzas por las aguas, yo estaré contigo.", "Is 43,2"], ["Maestro, ¿no te importa que nos ahoguemos?", "Mc 4,38"]], "q": "¿Qué cambio estoy atravesando? ¿Con quién podría no atravesarlo a solas?"}, "vc1": {"eb": "Vida consagrada hoy · El origen", "t": "Un amor que funda", "hoy": ["Vivimos en una cultura de la autorrealización, donde la vida se piensa como un proyecto personal a construir. En ese clima, también la vocación puede vivirse como una carrera, un deber o un mérito que hay que sostener a fuerza de voluntad.", "Cuando eso pasa, la entrega cansa y se vuelve pesada. Volver al origen (al momento en que uno se sintió mirado y amado) devuelve el sentido: la consagración es, antes que nada, una respuesta."], "aut": [["Benedicto XVI", "En <i>Deus caritas est</i> (1) recuerda que no se comienza a ser cristiano por una decisión ética o una gran idea, sino por el encuentro con una Persona que da un nuevo horizonte a la vida."], ["Hans Urs von Balthasar", "Su libro <i>Sólo el amor es digno de fe</i> sostiene que lo que hace creíble la fe no es un sistema de ideas, sino el amor de Dios que se entrega."], ["San Juan Pablo II", "En <i>Vita consecrata</i> presenta la vida consagrada como respuesta a una iniciativa de Dios, que llama y atrae con su amor antes de cualquier decisión humana."]], "pal": [["Nosotros amamos porque Dios nos amó primero.", "1 Jn 4,19"], ["Te amé con un amor eterno.", "Jer 31,3"], ["Jesús lo miró con amor.", "Mc 10,21"]], "q": "¿Recuerdo el momento en que me sentí mirado/a y amado/a? ¿Qué queda hoy de ese primer amor?"}, "vc2": {"eb": "Vida consagrada hoy · Los votos", "t": "Formas de libertad", "hoy": ["En una cultura del consumo, de la sexualidad banalizada y de la autonomía como valor absoluto, los votos resultan contraculturales. Pueden vivirse como una lista de renuncias o como un camino de libertad interior.", "Los desafíos son concretos: el uso del dinero y del tiempo, la afectividad y la soledad, el discernimiento compartido en comunidades cada vez más diversas. Los votos no se viven en abstracto, sino en lo cotidiano."], "aut": [["Erich Fromm", "En <i>¿Tener o ser?</i> distingue entre vivir para poseer y vivir para ser. La pobreza evangélica apunta a esa libertad: no definirse por lo que se tiene."], ["Amadeo Cencini", "Presenta los votos como una pedagogía del amor: no son prohibiciones, sino caminos para amar con un corazón libre, indiviso y disponible."], ["Papa Francisco", "En su carta a los consagrados (2014) los anima a «despertar al mundo» con un modo distinto de vivir, alegre y profético."]], "pal": [["Donde esté tu tesoro, allí estará también tu corazón.", "Mt 6,21"], ["No hay amor más grande que dar la vida por los amigos.", "Jn 15,13"], ["Que no se haga mi voluntad, sino la tuya.", "Lc 22,42"]], "q": "¿Cuál de mis votos o compromisos vivo hoy como peso, y cuál como libertad?"}, "vc3": {"eb": "Vida consagrada hoy · En comunidad", "t": "Una escuela de humanidad", "hoy": ["Las comunidades son hoy más pequeñas, más internacionales y con varias generaciones conviviendo. Eso enriquece, pero también trae roces: distintas culturas, distintas formas de rezar, de trabajar, de descansar.", "La comunidad puede ser lugar de sanación o de herida. No se trata de convivir sin conflictos, sino de aprender a atravesarlos: hablar, escuchar, perdonar, recomenzar."], "aut": [["Dietrich Bonhoeffer", "En <i>Vida en comunidad</i> advierte que quien ama más su ideal de comunidad que a la comunidad real termina destruyéndola: la fraternidad es un don, no un proyecto a imponer."], ["San Juan Pablo II", "En <i>Vita consecrata</i> (46) llama a los consagrados a ser «expertos en comunión», testigos de que es posible vivir unidos siendo diferentes."], ["Marshall Rosenberg", "Su propuesta de comunicación no violenta enseña a expresar lo que siento y necesito sin atacar, y a escuchar lo que el otro necesita detrás de lo que dice."]], "pal": [["La multitud de los creyentes tenía un solo corazón y una sola alma.", "Hch 4,32"], ["Sopórtense los unos a los otros y perdónense mutuamente.", "Col 3,13"], ["¡Qué bueno y agradable es que los hermanos vivan unidos!", "Sal 133,1"]], "q": "¿Con quién de mi comunidad me cuesta más? ¿Qué me enseña esa relación?"}, "vc4": {"eb": "Vida consagrada hoy · Profecía", "t": "Fecundidad en lo pequeño", "hoy": ["Muchas congregaciones viven la disminución de sus miembros, el envejecimiento y el cierre de obras. La tentación puede ser la nostalgia de otros tiempos o la lógica de la mera supervivencia.", "Pero la pequeñez también abre caminos: volver a lo esencial, compartir la misión con laicos y otras congregaciones, estar en las periferias, ser signo más que estructura. La fecundidad no se mide por el tamaño."], "aut": [["Papa Francisco", "Propuso a los consagrados tres actitudes: mirar el pasado con gratitud, vivir el presente con pasión y abrazar el futuro con esperanza."], ["Joseph Ratzinger", "Ya en 1969 anticipó una Iglesia más pequeña y más pobre, que perdería estructuras pero ganaría en interioridad y sencillez."], ["Johann Baptist Metz", "Habló de una «mística de ojos abiertos»: una espiritualidad que no se aparta del mundo, sino que mira con atención el sufrimiento de los demás."]], "pal": [["No temas, pequeño rebaño.", "Lc 12,32"], ["Es la más pequeña de las semillas, pero cuando crece es la más grande de las hortalizas.", "Mt 13,32"], ["Yo estoy por hacer algo nuevo: ya está germinando, ¿no se dan cuenta?", "Is 43,19"]], "q": "¿Dónde veo hoy fecundidad en lo pequeño? ¿Qué es lo esencial que no quiero perder?"}};const keys=Object.keys(IDEAS);const d=document.getElementById("idea-box");let cur=0;
 function show(k){cur=keys.indexOf(k);const x=IDEAS[k];document.getElementById("idea-eb").textContent=x.eb;document.getElementById("idea-t").textContent=x.t;
 document.getElementById("idea-body").innerHTML='<div class="idea-sec"><h4>Hoy</h4>'+x.hoy.map(p=>"<p>"+p+"</p>").join("")+'</div>'+
 '<div class="idea-sec"><h4>Lo que aportan algunos autores</h4><ul class="idea-aut">'+x.aut.map(a=>"<li><b>"+a[0]+"</b>"+a[1]+"</li>").join("")+'</ul></div>'+
